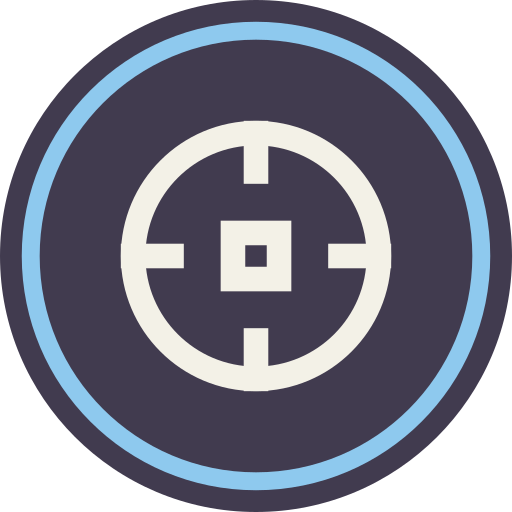
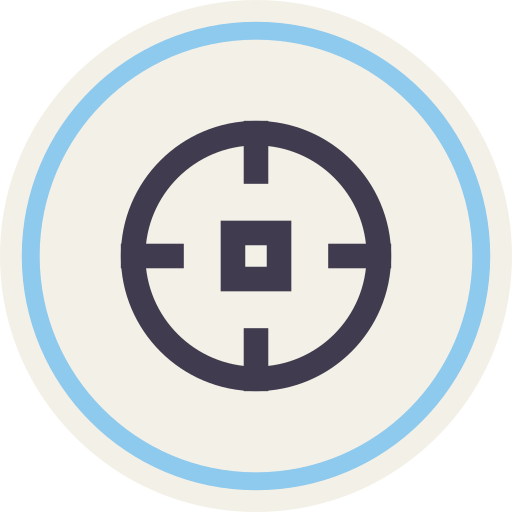
Recherche commune dans chaque app (loupe de l'en-tête, seulement les éléments de l'app : commun/chercher.js) ; sélectionner du texte ne ferme plus les fenêtres ; icône de Locus claire
Claude-Session: https://claude.ai/code/session_01UrtxTFyKEC5FMr2mpkvvwD

diff --git a/commun/chercher.js b/commun/chercher.js
@@ -1,0 +1,133 @@
+/* Locus — la recherche commune (18.11.2026, demande de Nicolas : « le système de recherche dans toutes les apps »).
+   Sur l'accueil : dans toutes les apps. Dans une app (loupe de l'en-tête, ajoutée par commun/cadre.js) : seulement
+   les éléments de cette app. Chaque ligne prend les couleurs de son app.
+   Usage : LocusChercher.ouvrir({ app: 'marche' | null, surClic: (item) => {} })
+     item = { app, type, id, wk, t, s } ; sans surClic, l'élément s'ouvre dans l'app courante (bouton caché qui
+     déclenche l'action de l'app : Établi « open », Bibliothèque « aller », Marché « art », Mine « mandat » / « contact »,
+     Banque « data-tx », Forge onglets). Lecture seule, avec la session commune (orga-auth). */
+(function () {
+  'use strict';
+  const SB_URL = 'https://rzcpjsffpvuvbdtqymms.supabase.co', SB_KEY = 'sb_publishable_mJNXDji0NMOmLFqo3GusGg_JBkFhJmC';
+  const C = { /* couleurs des lieux (commun/lieux.css) : page, texte, texte 2, surface, ligne, accent, sur l'accent */
+    locus: ['#4A4458', '#F3F1E7', '#C9C2D8', '#5A536A', '#6E6780', '#C3B6DF', '#2A2535'],
+    etabli: ['#CDB893', '#262321', '#54493A', '#E9DDC6', '#B9A57F', '#2F2C29', '#F2C230'],
+    banque: ['#15302A', '#F2ECDC', '#9DB3A9', '#1E3E36', '#2F5449', '#D6B15E', '#1E1606'],
+    forge: ['#1A1714', '#EFE3CC', '#8F8372', '#25201C', '#3D352E', '#8DBA88', '#1A1714'],
+    marche: ['#D7E6C3', '#1E3324', '#4F6650', '#F8F5EA', '#BFD1A8', '#B83C28', '#FFF5EE'],
+    mine: ['#DCE1E6', '#1D2833', '#53606D', '#F7F9FB', '#C3CAD2', '#4E3A86', '#F6F2FF'],
+    bibliotheque: ['#6E2733', '#F9E9E4', '#E0B9B6', '#5E1F2A', '#8A4450', '#E8C27A', '#3A1A10']
+  };
+  const NOMS = { etabli: 'l’Établi', banque: 'la Banque', forge: 'la Forge', marche: 'le Marché', mine: 'la Mine', bibliotheque: 'la Bibliothèque' };
+  const MOIS = ['janv.', 'févr.', 'mars', 'avr.', 'mai', 'juin', 'juil.', 'août', 'sept.', 'oct.', 'nov.', 'déc.'];
+  const JOURS = ['lun', 'mar', 'mer', 'jeu', 'ven', 'sam', 'dim'];
+  const esc = (s) => String(s == null ? '' : s).replace(/[&<>"]/g, (c) => ({ '&': '&amp;', '<': '&lt;', '>': '&gt;', '"': '&quot;' }[c]));
+  const plain = (x) => String(x || '').normalize('NFD').replace(/[\u0300-\u036f]/g, '').toLowerCase().replace(/œ/g, 'oe').replace(/æ/g, 'ae');
+  const wkNum = (k) => Number(String(k).split('-W')[1]);
+  const fDate = (d) => { const a = String(d || '').slice(0, 10).split('-').map(Number); if (a.length < 3 || !a[0]) return ''; return a[2] + ' ' + MOIS[a[1] - 1] + ' ' + a[0]; };
+  const chf = (x) => 'CHF ' + (Math.round((+x || 0) * 100) / 100).toLocaleString('fr-CH', { minimumFractionDigits: 2, maximumFractionDigits: 2 });
+  /* surligner en ignorant accents et ligatures : on retrouve la place dans le texte d'origine */
+  function marque(t, q) {
+    const s = String(t || ''); const map = []; let pl = '';
+    for (let i = 0; i < s.length; i++) { const c = plain(s[i]); for (let k = 0; k < c.length; k++) map.push(i); pl += c; }
+    const i = pl.indexOf(q); if (i < 0 || !q) return esc(s); const a = map[i], z = map[i + q.length - 1] + 1;
+    return esc(s.slice(0, a)) + '<mark>' + esc(s.slice(a, z)) + '</mark>' + esc(s.slice(z));
+  }
+  /* filtre « ou » de Supabase : chaque champ, avec et sans ligature (oeuf → œuf) */
+  function ouIlike(champs, brut) {
+    const v = brut.trim().replace(/[%_,()"\\]/g, ' ').trim(); const vs = [...new Set([v, v.replace(/oe/gi, 'œ'), v.replace(/ae/gi, 'æ')])];
+    return champs.flatMap((c) => vs.map((x) => `${c}.ilike."%${x}%"`)).join(',');
+  }
+  let sb = null, PB = null, uid = null;
+  async function pret() {
+    if (!sb && window.supabase && window.supabase.createClient) sb = window.supabase.createClient(SB_URL, SB_KEY, { auth: { persistSession: true, autoRefreshToken: false, storageKey: 'orga-auth' } });
+    if (sb && !uid) { try { const s = (await sb.auth.getSession()).data.session; uid = s && s.user ? s.user.id : null; } catch (e) {} }
+    if (uid && !PB && window.Projets) { PB = Projets.base(sb, uid); PB.tirer(); }
+  }
+  function forgeSemaines() { try { const f = JSON.parse(localStorage.getItem('locus-forge') || 'null'); return (f && f.semaines) || null; } catch (e) { return null; } }
+
+  /* le moteur : la liste des éléments trouvés, dans l'ordre d'affichage */
+  async function trouver(brut, app) {
+    const q = plain(brut).trim(), R = [], dans = (a) => !app || app === a;
+    if (q.length < 2) return R;
+    if (dans('etabli') && PB) {
+      PB.liste().filter((p) => plain(p.name).includes(q)).slice(0, 8).forEach((p) => R.push({ app: 'etabli', type: 'projet', id: p.id, e: p.emoji, t: p.name, s: (window.Projets && Projets.ETATS[Projets.etat(p)]) || '' }));
+      PB.domaines().filter((d) => plain(d.name).includes(q)).slice(0, 4).forEach((d) => R.push({ app: 'etabli', type: 'domaine', id: d.id, e: d.emoji, t: d.name, s: 'Domaine' }));
+      const T = []; [...PB.liste(), ...PB.domaines()].forEach((p) => { if (p.closed) return; Projets.tachesSeules(p.tasks).forEach((x) => { if (plain(x.t).includes(q)) T.push({ p, x }); }); });
+      T.slice(0, 10).forEach(({ p, x }) => R.push({ app: 'etabli', type: Projets.estDomaine(p) ? 'domaine' : 'projet', id: p.id, t: x.t, s: (x.d ? 'Tâche faite · ' : 'Tâche · ') + (p.emoji ? p.emoji + ' ' : '') + p.name }));
+    }
+    const fs = dans('forge') ? forgeSemaines() : null;
+    if (fs) { const vu = new Set(); Object.entries(fs).forEach(([wk, L]) => (L || []).forEach((x) => { if (!vu.has(x.t) && plain(x.t).includes(q)) { vu.add(x.t); R.push({ app: 'forge', type: 'seance', id: x.id, wk, t: x.t, s: 'Séance · S' + wkNum(wk) + (typeof x.day === 'number' ? ' · ' + JOURS[x.day] : '') }); } })); }
+    const req = [];
+    if (sb && uid) {
+      if (dans('bibliotheque')) req.push(['notes', sb.from('biblio_rows').select('key,data').like('key', 'n:%').eq('deleted', false).or(ouIlike(['data->>t', 'data->>d'], brut)).limit(25)]);
+      if (dans('mine')) { req.push(['mands', sb.from('mine_rows').select('key,data').like('key', 'm:%').eq('deleted', false).or(ouIlike(['data->>nom'], brut)).limit(8)]);
+        req.push(['conts', sb.from('mine_rows').select('key,data').like('key', 'c:%').eq('deleted', false).or(ouIlike(['data->>nom', 'data->>org'], brut)).limit(6)]); }
+      if (dans('marche')) req.push(['arts', sb.from('marche_rows').select('key,data').eq('deleted', false).or(ouIlike(['data->>nom'], brut)).limit(12)]);
+      if (dans('forge')) req.push(['exos', sb.from('carnet').select('key,data').like('key', 'exos/%').eq('deleted', false).or(ouIlike(['data->>name'], brut)).limit(8)]);
+      if (dans('banque')) req.push(['ops', sb.from('cash_rows').select('key,data').like('key', 't:%').eq('deleted', false).or(ouIlike(['data->>tiers', 'data->>note'], brut)).limit(app ? 25 : 12)]);
+    }
+    const D = {};
+    try { const rs = await Promise.all(req.map((x) => x[1])); rs.forEach((r, i) => { D[req[i][0]] = ((r && r.data) || []).filter((x) => x && x.data).map((x) => Object.assign({ _k: x.key }, x.data)); }); } catch (e) {}
+    const ou = (n) => { const p = String(n.p || ''); if (p === 'vide') return 'Vide-tête'; if (p.startsWith('j:')) return 'Journal S' + wkNum(p.slice(2));
+      if (p.startsWith('p:')) { const x = PB && PB.get(p.slice(2)); return x ? 'Notes · ' + x.name : 'Notes'; } if (p.startsWith('d:')) { const x = PB && PB.domaine(p.slice(2)); return x ? 'Notes · ' + x.name : 'Notes'; } return 'Notes'; };
+    (D.notes || []).forEach((n) => { const ent = plain(n.t).includes(q); R.push({ app: 'bibliotheque', type: 'ligne', id: n.id, t: n.t || '…', sm: ent ? '' : n.d, s: ou(n) + (n.a ? ' · archivée' : '') }); });
+    (D.mands || []).forEach((m) => R.push({ app: 'mine', type: 'mandat', id: m.id, t: m.nom, s: 'Mandat' }));
+    (D.conts || []).forEach((c) => R.push({ app: 'mine', type: 'contact', id: c.id, t: c.org || c.nom || '', s: 'Contact' + (c.org && c.nom ? ' · ' + c.nom : '') }));
+    (D.arts || []).filter((x) => /^[ae]:/.test(x._k)).forEach((x) => R.push({ app: 'marche', type: 'article', id: x.id, t: x.nom, s: x._k.startsWith('e:') ? 'Envie' : x.liste ? 'Sur la liste' : 'Article' }));
+    (D.exos || []).forEach((x) => R.push({ app: 'forge', type: 'exo', id: x._k.slice(5), t: x.name, s: 'Exercice' }));
+    (D.ops || []).sort((a, b) => String(b.date).localeCompare(String(a.date))).forEach((t) => { const ent = plain(t.tiers).includes(q);
+      R.push({ app: 'banque', type: 'op', id: t.id, t: t.tiers || t.note || 'Opération', sm: ent || !t.tiers ? '' : t.note, s: [fDate(t.date), t.montant != null ? chf(Math.abs(t.montant)) : '', ent && t.note ? t.note : ''].filter(Boolean).join(' · ') }); });
+    return R;
+  }
+
+  /* ouvrir un élément dans l'app courante : un bouton caché déclenche l'action que l'app connaît déjà */
+  function ouvrirIci(x) {
+    const b = document.createElement('button'); b.type = 'button'; b.hidden = true;
+    if (x.app === 'etabli' && x.type === 'projet') { b.dataset.act = 'open'; b.dataset.id = x.id; }
+    else if (x.app === 'etabli' && x.type === 'domaine') { b.dataset.act = 'open'; b.dataset.id = x.id; }
+    else if (x.app === 'bibliotheque') { b.dataset.act = 'aller'; b.dataset.id = x.id; }
+    else if (x.app === 'marche') { b.dataset.act = 'art'; b.dataset.id = x.id; }
+    else if (x.app === 'mine') { b.dataset.act = x.type === 'contact' ? 'contact' : 'mandat'; b.dataset.id = x.id; }
+    else if (x.app === 'banque') { b.dataset.tx = x.id; }
+    else if (x.app === 'forge') { const t = document.querySelector('#tabs [data-view="' + (x.type === 'exo' ? 'exos' : 'semaine') + '"]'); if (t) t.click(); return; }
+    document.body.appendChild(b); b.click(); b.remove();
+  }
+
+  let $o = null, minut = null, opts = {};
+  const CSS = (L) => { const c = C[L] || C.locus; return `
+#locus-chercher{position:fixed;inset:0;z-index:2147482000;background:${c[0]};color:${c[1]};display:flex;flex-direction:column;font-family:"Space Grotesk",system-ui,sans-serif;font-size:15px;line-height:1.45;color-scheme:${['banque', 'forge', 'bibliotheque', 'locus'].includes(L) ? 'dark' : 'light'}}
+#locus-chercher *{box-sizing:border-box}
+#locus-chercher header{flex:none;display:flex;align-items:center;gap:10px;padding:calc(env(safe-area-inset-top,0px) + 6px) 10px 6px;background:color-mix(in srgb,${c[0]} 88%,#000)}
+#locus-chercher header h2{margin:0;flex:1;font:700 15px/1.2 "Unbounded","Space Grotesk",sans-serif;letter-spacing:-.02em}
+#locus-chercher .x{all:unset;width:42px;height:44px;display:grid;place-items:center;cursor:pointer;color:inherit}
+#locus-chercher .corps{flex:1;overflow:auto;padding:16px max(16px,env(safe-area-inset-right,0px)) 24px max(16px,env(safe-area-inset-left,0px));max-width:760px;width:100%;margin:0 auto;display:flex;flex-direction:column;gap:14px}
+#locus-chercher input{height:48px;border-radius:99px;border:1px solid ${c[4]};background:${c[3]};color:${c[1] === '#F2ECDC' || c[1] === '#EFE3CC' || c[1] === '#F3F1E7' ? c[1] : c[1]};padding:0 18px;font:inherit;font-size:16px;width:100%}
+#locus-chercher .note{margin:0;color:${c[2]};font-size:13px}
+#locus-chercher ul{list-style:none;margin:0;padding:0;display:flex;flex-direction:column;gap:6px}
+#locus-chercher li button{all:unset;box-sizing:border-box;width:100%;display:flex;flex-direction:column;gap:2px;padding:10px 12px;border-radius:12px;cursor:pointer;box-shadow:inset 0 0 0 1px rgba(127,127,127,.18)}
+#locus-chercher li .t{display:block}
+#locus-chercher li small{font-size:12px}
+#locus-chercher mark{border-radius:3px;padding:0 1px}
+${Object.entries(C).map(([k, v]) => `#locus-chercher li[data-l="${k}"] button{background:${v[0]};color:${v[1]}}#locus-chercher li[data-l="${k}"] small{color:${v[2]}}#locus-chercher li[data-l="${k}"] mark{background:${v[5]};color:${v[6]}}`).join('\n')}
+#locus-chercher li[data-l="${L}"] button{background:${c[3]};${L === 'bibliotheque' ? 'color:#2E1418' : ''}}${L === 'bibliotheque' ? '#locus-chercher li[data-l="bibliotheque"] small{color:#795359}' : ''}`; };
+  function fermer() { if (!$o) return; $o.remove(); $o = null; document.documentElement.style.overflow = ''; }
+  async function ouvrir(o) {
+    opts = o || {}; const app = opts.app || null, L = app || 'locus'; fermer();
+    $o = document.createElement('div'); $o.id = 'locus-chercher'; $o.setAttribute('role', 'dialog'); $o.setAttribute('aria-label', 'Chercher');
+    $o.innerHTML = `<style>${CSS(L)}</style><header><button type="button" class="x" data-x aria-label="Fermer"><svg viewBox="0 0 20 20" width="18" height="18" fill="none" stroke="currentColor" stroke-width="1.8" stroke-linecap="square"><path d="M4 4l12 12M16 4 4 16"/></svg></button><h2>${app ? 'Chercher dans ' + esc(NOMS[app] || app) : 'Chercher partout'}</h2></header>
+      <div class="corps"><input type="search" placeholder="${app ? 'Un mot…' : 'Un mot : projet, note, mandat, article…'}" autocomplete="off" aria-label="Chercher" enterkeyhint="search"><div class="r"><p class="note">Au moins deux lettres.</p></div></div>`;
+    document.body.appendChild($o); document.documentElement.style.overflow = 'hidden';
+    const i = $o.querySelector('input'), $r = $o.querySelector('.r'); let R = [];
+    setTimeout(() => i.focus(), 30);
+    $o.querySelector('[data-x]').addEventListener('click', fermer);
+    $o.addEventListener('keydown', (e) => { if (e.key === 'Escape') fermer(); });
+    i.addEventListener('input', () => { clearTimeout(minut); const v = i.value; minut = setTimeout(async () => {
+      const q = plain(v).trim(); if (q.length < 2) { $r.innerHTML = '<p class="note">Au moins deux lettres.</p>'; return; }
+      await pret(); const L2 = await trouver(v, app); if (!$o || plain(i.value).trim() !== q) return; R = L2;
+      $r.innerHTML = R.length ? '<ul>' + R.map((x, k) => `<li data-l="${x.app}"><button type="button" data-k="${k}"><span class="t">${x.e ? esc(x.e) + ' ' : ''}${marque(x.t, q)}</span><small>${x.sm ? marque(x.sm, q) + ' · ' : ''}${esc(x.s || '')}</small></button></li>`).join('') + '</ul>' : '<p class="note">Rien trouvé.</p>';
+    }, 250); });
+    $r.addEventListener('click', (e) => { const b = e.target.closest('[data-k]'); if (!b) return; const x = R[+b.dataset.k]; if (!x) return; fermer(); if (opts.surClic) opts.surClic(x); else ouvrirIci(x); });
+    pret();
+  }
+  window.LocusChercher = { ouvrir, fermer, trouver, marque, plain };
+})();

diff --git a/index.html b/index.html
@@ -144,13 +144,14 @@ pre.claude{margin:0;white-space:pre-wrap;background:var(--surface);border-radius
 </style>
 </head>
 <body>
-<header class="oh"><div class="oh-bar"><span class="oh-orga"><svg class="ic" viewBox="0 0 20 20" aria-hidden="true"><circle cx="10" cy="10" r="8"/><path d="M8.5 8.5h3v3h-3zM10 2v2.5M10 15.5V18M2 10h2.5M15.5 10H18"/></svg></span><h1 class="oh-nom">Locus</h1><span class="oh-sub" id="date"></span><span class="oh-sp"></span><button class="oh-b" type="button" id="b-chercher" aria-label="Chercher dans toutes les apps"><svg class="ic" viewBox="0 0 20 20" aria-hidden="true"><circle cx="8" cy="8" r="5.5"/><path d="M12 12l5.5 5.5"/></svg></button><button class="oh-b" type="button" data-ampoule><svg class="ic" viewBox="0 0 20 20" aria-hidden="true"><path d="M7 15h6M8 18h4M10 2a5 5 0 0 0-3.2 8.8V13h6.4v-2.2A5 5 0 0 0 10 2z"/></svg></button><a class="oh-b" href="reglages/" aria-label="Réglages de Locus"><svg class="ic" viewBox="0 0 20 20" aria-hidden="true"><circle cx="10" cy="10" r="3"/><path d="M10 1.5v3M10 15.5v3M1.5 10h3M15.5 10h3M4 4l2.1 2.1M13.9 13.9 16 16M16 4l-2.1 2.1M6.1 13.9 4 16"/></svg></a></div></header>
+<header class="oh"><div class="oh-bar"><span class="oh-orga"><svg class="ic" viewBox="0 0 20 20" aria-hidden="true"><circle cx="10" cy="10" r="8"/><path d="M8.5 8.5h3v3h-3zM10 2v2.5M10 15.5V18M2 10h2.5M15.5 10H18"/></svg></span><h1 class="oh-nom">Locus</h1><span class="oh-sub" id="date"></span><span class="oh-sp"></span><button class="oh-b" type="button" id="b-chercher" data-chercher aria-label="Chercher dans toutes les apps"><svg class="ic" viewBox="0 0 20 20" aria-hidden="true"><circle cx="8" cy="8" r="5.5"/><path d="M12 12l5.5 5.5"/></svg></button><button class="oh-b" type="button" data-ampoule><svg class="ic" viewBox="0 0 20 20" aria-hidden="true"><path d="M7 15h6M8 18h4M10 2a5 5 0 0 0-3.2 8.8V13h6.4v-2.2A5 5 0 0 0 10 2z"/></svg></button><a class="oh-b" href="reglages/" aria-label="Réglages de Locus"><svg class="ic" viewBox="0 0 20 20" aria-hidden="true"><circle cx="10" cy="10" r="3"/><path d="M10 1.5v3M10 15.5v3M1.5 10h3M15.5 10h3M4 4l2.1 2.1M13.9 13.9 16 16M16 4l-2.1 2.1M6.1 13.9 4 16"/></svg></a></div></header>
 <main id="main"></main>
 <div class="plein" id="plein" hidden></div>
 <div class="toast" id="toast" hidden></div>
 <script src="commun/supabase.js"></script>
 <script src="commun/pictos.js"></script>
 <script src="commun/projets.js"></script>
+<script src="commun/chercher.js"></script>
 <script>
 'use strict';
 /* =====================================================================================================
@@ -390,48 +391,16 @@ function poser(j){ const s=R.sel; R.sel=null; if(s.startsWith('p:')) placerProje
 $plein.addEventListener('change',e=>{ const el=e.target; if(el.dataset.r!=='ranger'||!el.value) return; const n=Object.assign({},B['n:'+el.dataset.id]); if(!n.id) return;
   n.p=el.value; n.o=Date.now()/1e6; delete B['n:'+n.id]; ecrireB('n:'+n.id,n); toast('Rangée dans '+el.options[el.selectedIndex].text.trim()); vRoutine(); });
 
-/* =============================== Chercher =============================== */
-let qT=null;
-function ouvrirChercher(){ $plein.hidden=false; document.body.style.overflow='hidden'; $plein.dataset.e='';
-  $plein.innerHTML=cadrePlein('Chercher partout','',`<input class="in" id="i-q" placeholder="Un mot : projet, note, mandat, article…" autocomplete="off" aria-label="Chercher" style="height:48px;border-radius:99px;border:1px solid var(--line);background:var(--surface);color:var(--ink);padding:0 16px"><div id="r-q"><p class="note">Au moins deux lettres.</p></div>`,'');
-  setTimeout(()=>document.getElementById('i-q').focus(),30); }
-/* surligner : la recherche ignore accents et ligatures (œ = oe) ; on retrouve la place dans le texte d'origine */
-function marque(t,q){ const s=String(t||''); const map=[]; let pl=''; for(let i=0;i<s.length;i++){ const c=plain(s[i]); for(let k=0;k<c.length;k++) map.push(i); pl+=c; }
-  const i=pl.indexOf(q); if(i<0||!q) return esc(s); const a=map[i], z=map[i+q.length-1]+1; return esc(s.slice(0,a))+'<mark>'+esc(s.slice(a,z))+'</mark>'+esc(s.slice(z)); }
-/* filtre « ou » de Supabase : chaque champ, avec et sans ligature (oeuf → œuf) */
-function ouIlike(champs,brut){ const v=brut.trim().replace(/[%_,()"\\]/g,' ').trim(); const vs=[...new Set([v,v.replace(/oe/gi,'œ'),v.replace(/ae/gi,'æ')])];
-  return champs.flatMap(c=>vs.map(x=>`${c}.ilike."%${x}%"`)).join(','); }
-const fDate=d=>{ const x=parse(String(d||'').slice(0,10)); return isNaN(x)?'':x.getDate()+' '+MOIS[x.getMonth()]+' '+x.getFullYear(); };
-/* toutes les apps ; chaque ligne prend les couleurs de son app (demande de Nicolas, 18.11) */
-async function chercher(qBrut){ const q=plain(qBrut).trim(), $r=document.getElementById('r-q'); if(!$r) return; if(q.length<2){ $r.innerHTML='<p class="note">Au moins deux lettres.</p>'; return; }
-  const R=[];
-  if(PB){ PB.liste().filter(p=>plain(p.name).includes(q)).slice(0,8).forEach(p=>R.push({app:'etabli',e:p.emoji,t:p.name,s:Projets.ETATS[Projets.etat(p)]||'',href:'etabli/#p:'+p.id,attrs:`data-dans="etabli" data-hash="p:${esc(p.id)}"`}));
-    PB.domaines().filter(d=>plain(d.name).includes(q)).slice(0,4).forEach(d=>R.push({app:'etabli',e:d.emoji,t:d.name,s:'Domaine',href:'bibliotheque/#d:'+d.id}));
-    const T=[]; [...PB.liste(),...PB.domaines()].forEach(p=>{ if(p.closed) return; Projets.tachesSeules(p.tasks).forEach(x=>{ if(plain(x.t).includes(q)) T.push({p,x}); }); });
-    T.slice(0,10).forEach(({p,x})=>R.push({app:'etabli',t:x.t,s:(x.d?'Tâche faite · ':'Tâche · ')+(p.emoji?p.emoji+' ':'')+p.name,href:Projets.estDomaine(p)?'etabli/':'etabli/#p:'+p.id,attrs:Projets.estDomaine(p)?'':`data-dans="etabli" data-hash="p:${esc(p.id)}"`})); }
-  const f=forge(); if(f&&f.semaines){ const vu=new Set(); Object.entries(f.semaines).forEach(([wk,L])=>L.forEach(x=>{ if(!vu.has(x.t)&&plain(x.t).includes(q)){ vu.add(x.t); R.push({app:'forge',t:x.t,s:'Séance · S'+wkNum(wk)+(typeof x.day==='number'?' · '+JOURS[x.day]:''),href:'forge/#s-'+wk}); } })); }
-  let Q=[[],[],[],[],[],[]];
-  try{ Q=(await Promise.all([
-      sb.from('biblio_rows').select('key,data').like('key','n:%').eq('deleted',false).or(ouIlike(['data->>t','data->>d'],qBrut)).limit(25),
-      sb.from('mine_rows').select('key,data').like('key','m:%').eq('deleted',false).or(ouIlike(['data->>nom'],qBrut)).limit(8),
-      sb.from('mine_rows').select('key,data').like('key','c:%').eq('deleted',false).or(ouIlike(['data->>nom','data->>org'],qBrut)).limit(6),
-      sb.from('marche_rows').select('key,data').eq('deleted',false).or(ouIlike(['data->>nom'],qBrut)).limit(12),
-      sb.from('carnet').select('key,data').like('key','exos/%').eq('deleted',false).or(ouIlike(['data->>name'],qBrut)).limit(8),
-      sb.from('cash_rows').select('key,data').like('key','t:%').eq('deleted',false).or(ouIlike(['data->>tiers','data->>note'],qBrut)).limit(12)
-    ])).map(r=>((r&&r.data)||[]).filter(x=>x&&x.data).map(x=>Object.assign({_k:x.key},x.data))); }catch(e){}
-  if(plain(document.getElementById('i-q')?document.getElementById('i-q').value:'').trim()!==q) return;
-  const ou=n=>{ const p=String(n.p||''); if(p==='vide') return 'Vide-tête'; if(p.startsWith('j:')) return 'Journal S'+wkNum(p.slice(2)); if(p.startsWith('p:')){ const x=PB&&PB.get(p.slice(2)); return x?'Notes · '+x.name:'Notes'; } if(p.startsWith('d:')){ const x=PB&&PB.domaine(p.slice(2)); return x?'Notes · '+x.name:'Notes'; } return 'Notes'; };
-  const [notes,mands,conts,arts,exos,ops]=Q;
-  notes.forEach(n=>{ const ent=plain(n.t).includes(q); R.push({app:'bibliotheque',t:ent?n.t:(n.t||'…'),s:ou(n)+(n.a?' · archivée':''),sm:ent?'':n.d,href:'bibliotheque/',attrs:`data-ligne="${esc(n.id)}"`}); });
-  mands.forEach(m=>R.push({app:'mine',t:m.nom,s:'Mandat',href:'mine/',attrs:'data-mine="mandats"'}));
-  conts.forEach(c=>R.push({app:'mine',t:c.org||c.nom||'',s:'Contact'+(c.org&&c.nom?' · '+c.nom:''),href:'mine/',attrs:'data-mine="contacts"'}));
-  arts.filter(x=>/^[ae]:/.test(x._k)).forEach(x=>R.push({app:'marche',t:x.nom,s:x._k.startsWith('e:')?'Envie':x.liste?'Sur la liste':'Article',href:'marche/'}));
-  exos.forEach(x=>R.push({app:'forge',t:x.name,s:'Exercice',href:'forge/#exos'}));
-  ops.sort((a,b)=>String(b.date).localeCompare(String(a.date))).forEach(t=>{ const ent=plain(t.tiers).includes(q); R.push({app:'banque',t:t.tiers||t.note||'Opération',sm:ent||!t.tiers?'':t.note,s:[fDate(t.date),t.montant!=null?chf(Math.abs(t.montant)):'',ent&&t.note?t.note:''].filter(Boolean).join(' · '),href:'banque/'}); });
-  $r.innerHTML=R.length?`<ul class="res">${R.map(x=>`<li><a href="${esc(x.href)}" data-lieu="${x.app}" ${x.attrs||''}><span class="t">${x.e?esc(x.e)+' ':''}${marque(x.t,q)}</span><small>${x.sm?marque(x.sm,q)+' · ':''}${esc(x.s||'')}</small></a></li>`).join('')}</ul>`:'<p class="note">Rien trouvé.</p>'; }
-$plein.addEventListener('input',e=>{ if(e.target.id==='i-q'){ clearTimeout(qT); const v=e.target.value; qT=setTimeout(()=>chercher(v),250); } });
-$plein.addEventListener('click',e=>{ const a=e.target.closest('a[data-ligne]'); if(a){ e.preventDefault(); vers('bibliotheque',{id:a.dataset.ligne}); return; }
-  const m=e.target.closest('a[data-mine]'); if(m){ try{ localStorage.setItem('mine-tab',m.dataset.mine); }catch(x){} } });
+/* =============================== Chercher (commun/chercher.js) =============================== */
+/* sur l'accueil : dans toutes les apps ; un élément s'ouvre au premier plan quand c'est possible */
+function allerA(x){
+  if(x.app==='etabli'&&x.type==='projet'){ ouvrirDans('etabli','','p:'+x.id); return; }
+  if(x.app==='etabli') { location.href='bibliotheque/#d:'+x.id; return; }
+  if(x.app==='bibliotheque'){ vers('bibliotheque',{id:x.id}); return; }
+  if(x.app==='mine'){ try{ localStorage.setItem('mine-tab',x.type==='contact'?'contacts':'mandats'); }catch(e){} location.href='mine/'; return; }
+  if(x.app==='forge'){ location.href=x.type==='exo'?'forge/#exos':'forge/#s-'+x.wk; return; }
+  location.href=x.app+'/'; }
+function ouvrirChercher(){ if(window.LocusChercher) LocusChercher.ouvrir({app:null,surClic:allerA}); }
 
 /* =============================== Accueil : actions =============================== */
 document.getElementById('b-chercher').addEventListener('click',()=>{ if(UID) ouvrirChercher(); });

diff --git a/commun/cadre.js b/commun/cadre.js
@@ -55,6 +55,27 @@
     if (to) { let der = ''; new MutationObserver(() => { if (to.hidden) { der = ''; return; } const s = to.querySelector('span'), x = ((s || to).textContent || '').trim(); if (x && x !== der) { der = x; dire({ toast: x }); } }).observe(to, { attributes: true, childList: true, subtree: true, characterData: true }); }
   }
   premierPlan();
-  function tout() { appliquer(); annuler(); }
+  /* Une sélection de texte commencée dans une feuille et relâchée sur le fond ne ferme plus la feuille (18.11) :
+     le clic n'atteint le fond (#scrim) que si le doigt s'y était posé. */
+  let posé = null;
+  addEventListener('pointerdown', (e) => { posé = e.target; }, true);
+  addEventListener('click', (e) => { const sc = e.target; if (sc && sc.id === 'scrim' && posé && posé !== sc) { e.stopImmediatePropagation(); e.preventDefault(); } }, true);
+  /* Loupe de la recherche commune dans chaque app (18.11) : seulement les éléments de cette app (commun/chercher.js) */
+  const ICI = (document.currentScript && document.currentScript.src) || '';
+  function chercher() {
+    const h = document.querySelector('header.oh'); if (!h || h.querySelector('[data-chercher]') || /[?&]dans=/.test(location.search)) return;
+    const apps = ['etabli', 'banque', 'forge', 'marche', 'mine', 'bibliotheque'];
+    const app = apps.find((a) => document.documentElement.dataset.lieu === a) || apps.find((a) => location.pathname.includes('/' + a + '/')); if (!app) return;
+    const avant = h.querySelector('[data-annuler]') || h.querySelector('[data-ampoule]'); if (!avant) return;
+    const b = document.createElement('button'); b.type = 'button'; b.className = 'oh-b'; b.dataset.chercher = ''; b.setAttribute('aria-label', 'Chercher dans cette app');
+    b.innerHTML = '<svg class="ic" viewBox="0 0 20 20" aria-hidden="true"><circle cx="8" cy="8" r="5.5"/><path d="M12 12l5.5 5.5"/></svg>';
+    b.addEventListener('click', () => {
+      const go = () => window.LocusChercher && LocusChercher.ouvrir({ app });
+      if (window.LocusChercher) return go();
+      const s = document.createElement('script'); s.src = ICI.replace(/cadre\.js(\?.*)?$/, 'chercher.js'); s.onload = go; document.head.appendChild(s);
+    });
+    avant.before(b);
+  }
+  function tout() { appliquer(); annuler(); chercher(); }
   if (document.readyState === 'loading') document.addEventListener('DOMContentLoaded', tout); else tout();
 })();

diff --git a/commun/ampoule.js b/commun/ampoule.js
@@ -179,6 +179,7 @@
 
   /* ---------- fenêtre ---------- */
   let host = null, root = null, ouvert = false, bouton = null;
+  let basFond = false;
   const V = { type: 'idee', faites: false, edit: null, tout: false, attente: [], cochees: null };
   /* brouillon (18.11) : une idée en cours d'écriture survit à un toucher à côté de la fenêtre (gardé sur l'appareil) */
   const BK = 'locus-ampoule-brouillon-' + APP;
@@ -348,7 +349,7 @@ details[open] summary{margin-bottom:6px}
         if (!ouvert || !e.composedPath().includes(host)) return;
         e.stopImmediatePropagation(); if (ev === 'keydown' && e.key === 'Escape') fermer();
       }, true));
-      root.addEventListener('click', clic); root.addEventListener('submit', envoi); root.addEventListener('change', coche); root.addEventListener('input', (e) => { agrandir(e.target); const f = e.target.form; if (f && f.dataset.form === 'ajout') garderBrouillon({ titre: f.titre ? f.titre.value : '', details: f.details ? f.details.value : '', type: V.type }); });
+      root.addEventListener('pointerdown', (e) => { basFond = !!(e.target && e.target.dataset && e.target.dataset.act === 'fond'); }, true); root.addEventListener('click', clic); root.addEventListener('submit', envoi); root.addEventListener('change', coche); root.addEventListener('input', (e) => { agrandir(e.target); const f = e.target.form; if (f && f.dataset.form === 'ajout') garderBrouillon({ titre: f.titre ? f.titre.value : '', details: f.details ? f.details.value : '', type: V.type }); });
       /* coller une capture (Ctrl+V), ou la glisser sur la fenêtre */
       addEventListener('paste', (e) => {
         if (!ouvert || !e.clipboardData) return;
@@ -378,7 +379,8 @@ details[open] summary{margin-bottom:6px}
     const el = e.target.closest('[data-act],[data-voir]'); if (!el) return;
     if (el.dataset.voir) { V.edit = { key: el.dataset.voir }; dessiner(); return; }
     const a = el.dataset.act;
-    if (a === 'fond') { if (e.target === el) fermer(); return; }
+    /* fermer seulement si le doigt s'est posé sur le fond (pas en sélectionnant du texte qui déborde, 18.11) */
+    if (a === 'fond') { if (e.target === el && basFond) fermer(); return; }
     if (a === 'dezoom') { el.hidden = true; return; }
     if (a === 'zoom') { zoom(el.dataset.id); return; }
     if (a === 'capRetirer') {

diff --git a/sw.js b/sw.js
@@ -1,10 +1,10 @@
 /* ORGA : un seul service worker pour l'accueil et toutes les apps (l'Établi, la Banque, la Forge, le Marché, la Mine…).
    Fonctionne hors ligne. Changer VERSION à chaque mise à jour du code. */
-const VERSION = 'orga-2026-11-18-14';
+const VERSION = 'orga-2026-11-18-15';
 const SHELL = [
   './', 'index.html', 'manifest.webmanifest',
   'icons/icon-192.png', 'icons/icon-512.png', 'icons/icon-maskable-512.png',
-  'commun/supabase.js', 'commun/projets.js', 'commun/dossier.js', 'commun/ampoule.js', 'commun/cadre.css', 'commun/cadre.js', 'commun/lieux.css', 'commun/pictos.js', 'commun/emojis.js', 'reglages/',
+  'commun/supabase.js', 'commun/projets.js', 'commun/dossier.js', 'commun/ampoule.js', 'commun/cadre.css', 'commun/cadre.js', 'commun/lieux.css', 'commun/pictos.js', 'commun/emojis.js', 'commun/chercher.js', 'reglages/',
   'commun/fonts/unbounded-latin-500-normal.woff2', 'commun/fonts/unbounded-latin-700-normal.woff2',
   'commun/fonts/space-grotesk-latin-400-normal.woff2', 'commun/fonts/space-grotesk-latin-500-normal.woff2', 'commun/fonts/space-grotesk-latin-600-normal.woff2', 'commun/fonts/space-grotesk-latin-700-normal.woff2',
   'commun/fonts/atkinson-hyperlegible-latin-400-normal.woff2', 'commun/fonts/atkinson-hyperlegible-latin-700-normal.woff2',
